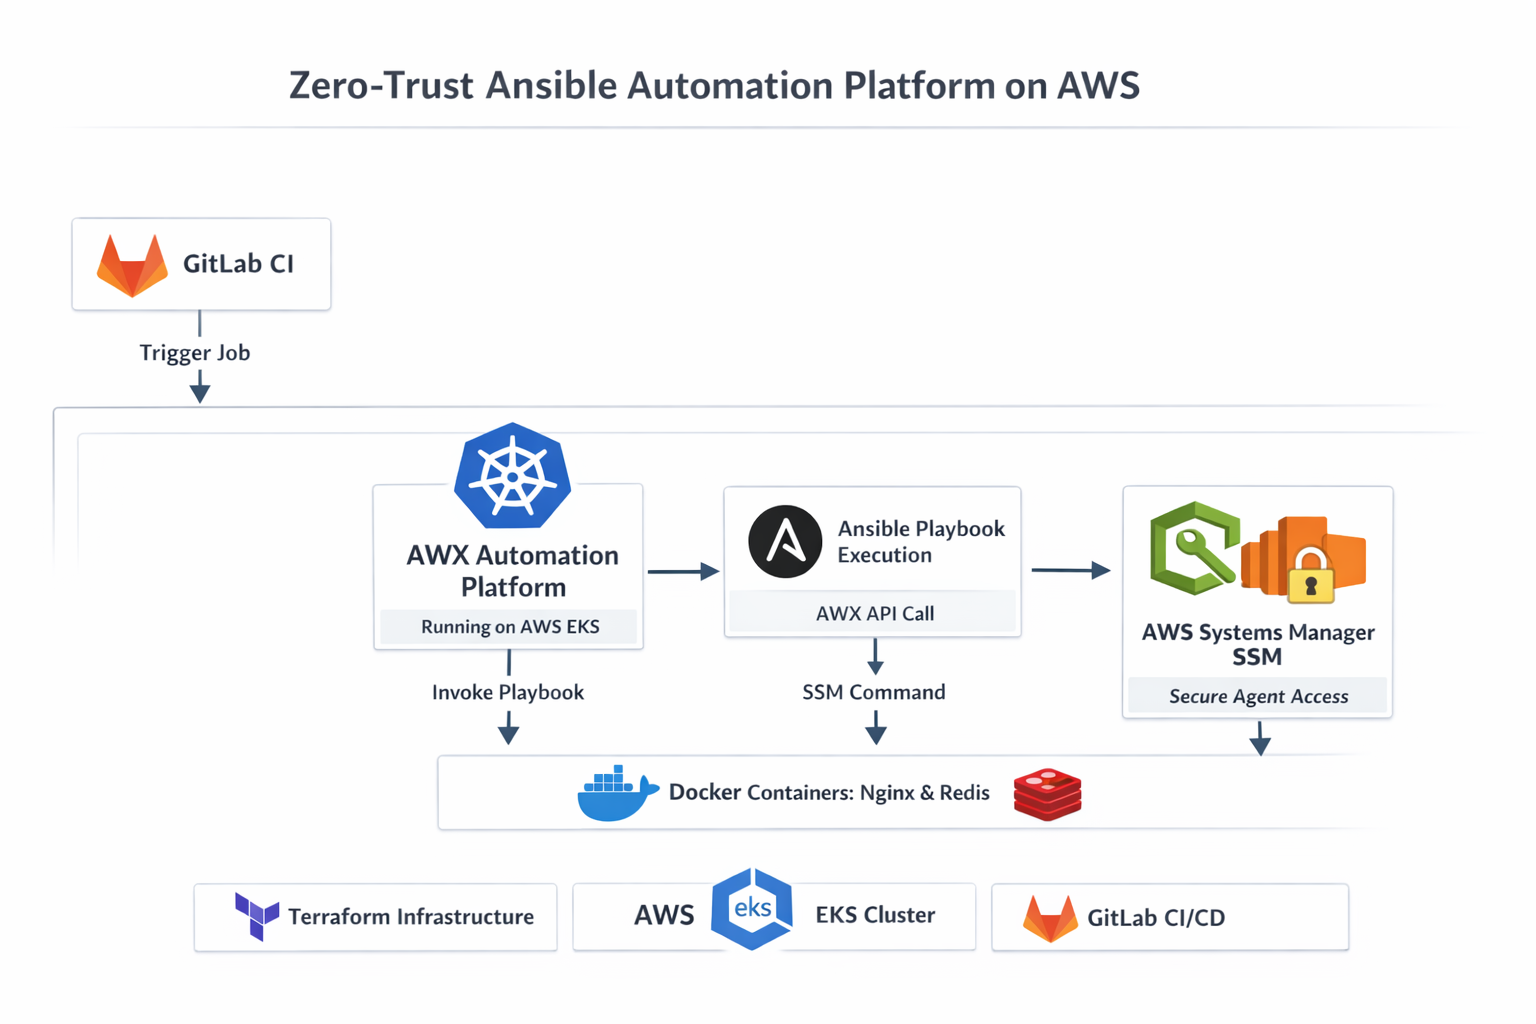
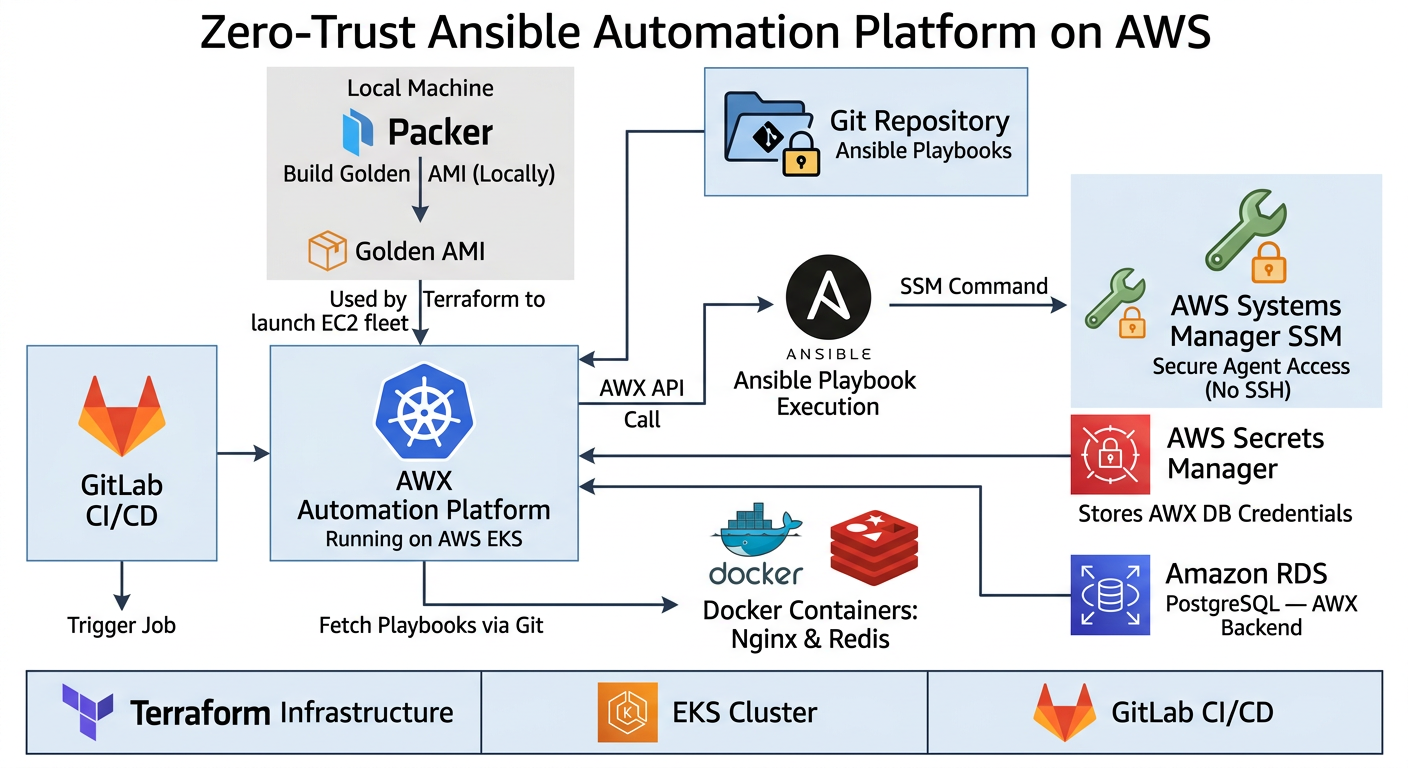
docs: use new architecture overview image, elaborate AWX config, update Packer description

diff --git a/README.md b/README.md
@@ -12,16 +12,14 @@ So the idea of this project was to build a central automation platform that can 
 
 ## What AWX / Ansible Tower is
 
-AWX is basically a web-based automation platform for Ansible. Instead of running Ansible from your laptop or CLI, AWX gives you a UI, API, inventory management, job scheduling, logging, and role-based access control.
+AWX is the open-source upstream project for Ansible Tower (now Red Hat Ansible Automation Platform). It is basically a web-based automation platform for Ansible. Instead of running Ansible from your laptop or CLI, AWX gives you a UI, API, inventory management, job scheduling, logging, and role-based access control for running Ansible playbooks in a centralized way.
 
 In simple terms, it makes Ansible easier to run in a team environment.
-
-The enterprise version of AWX is called Red Hat Ansible Automation Platform, which was earlier known as Ansible Tower.
 
 **Difference in simple terms:**
 
 **AWX**
-- Open-source project
+- Open-source upstream project
 - Community supported
 - Free to use
 - Good for learning and internal automation
@@ -31,13 +29,34 @@ The enterprise version of AWX is called Red Hat Ansible Automation Platform, whi
 - Paid subscription
 - Includes official support, security patches, automation analytics, and enterprise features
 
-So in this project I used AWX (open-source), but the architecture is almost the same as the enterprise automation platform used in companies.
+So in this project I used AWX (open-source), but the architecture is almost the same as the enterprise automation platform used in companies. It is deployed inside Kubernetes using Helm on AWS EKS.
+
+Inside AWX we configured:
+- Inventory for the EC2 fleet
+- Credentials for AWS access
+- Execution environments
+- Job templates
+- Connection to the Git repository that stores playbooks
+
+When a job runs, AWX fetches playbooks from the connected Git repository and executes them against the infrastructure.
 
 ## What I actually built (project explanation)
 
 So what I did in this project was I built a small automation platform on AWS. I created the infrastructure using Terraform and deployed everything inside an Amazon EKS cluster. Inside that Kubernetes cluster I installed AWX using Helm.
 
 The idea was to run AWX as a centralized automation service. Instead of running Ansible from my laptop, AWX runs playbooks from inside the cluster.
+
+**Golden AMI using Packer**
+
+Before creating the EC2 fleet, a Golden AMI was built using Packer.
+
+This AMI includes the base configuration required for the servers, such as:
+- Docker installation
+- SSM agent configuration
+- Base OS configuration
+
+Using a Golden AMI helps ensure that every instance in the fleet starts from a consistent base image.
+This is a common practice in many DevOps environments to standardize infrastructure.
 
 I also created a small EC2 fleet which acts like application servers. These servers were kept completely private — no SSH access and no inbound ports open. To manage them securely I used AWS Systems Manager. This allows commands to run on EC2 instances without opening SSH.
 
@@ -240,7 +259,7 @@ Once everything is inside the cluster, it becomes easier to integrate with other
 │   │   └── awx-secrets.yaml        # ExternalSecrets for DB + admin
 │   └── argocd-apps/
 │       └── awx.yaml                # ArgoCD Application for AWX
-└── packer/                         # Phase 2 — EC2 Golden AMI
+└── packer/                         # EC2 Golden AMI
     ├── aws-ubuntu.pkr.hcl
     └── setup-scripts/
         └── install.sh
@@ -260,7 +279,7 @@ Once everything is inside the cluster, it becomes easier to integrate with other
 | ESO | 0.12.1 (Helm) |
 | ALB Controller | 1.11.0 (Helm) |
 | RDS PostgreSQL | 16 |
-| Packer (Phase 2) | >= 1.9.0 |
+| Packer | >= 1.9.0 |
 
 
 ## Deployment Flow
